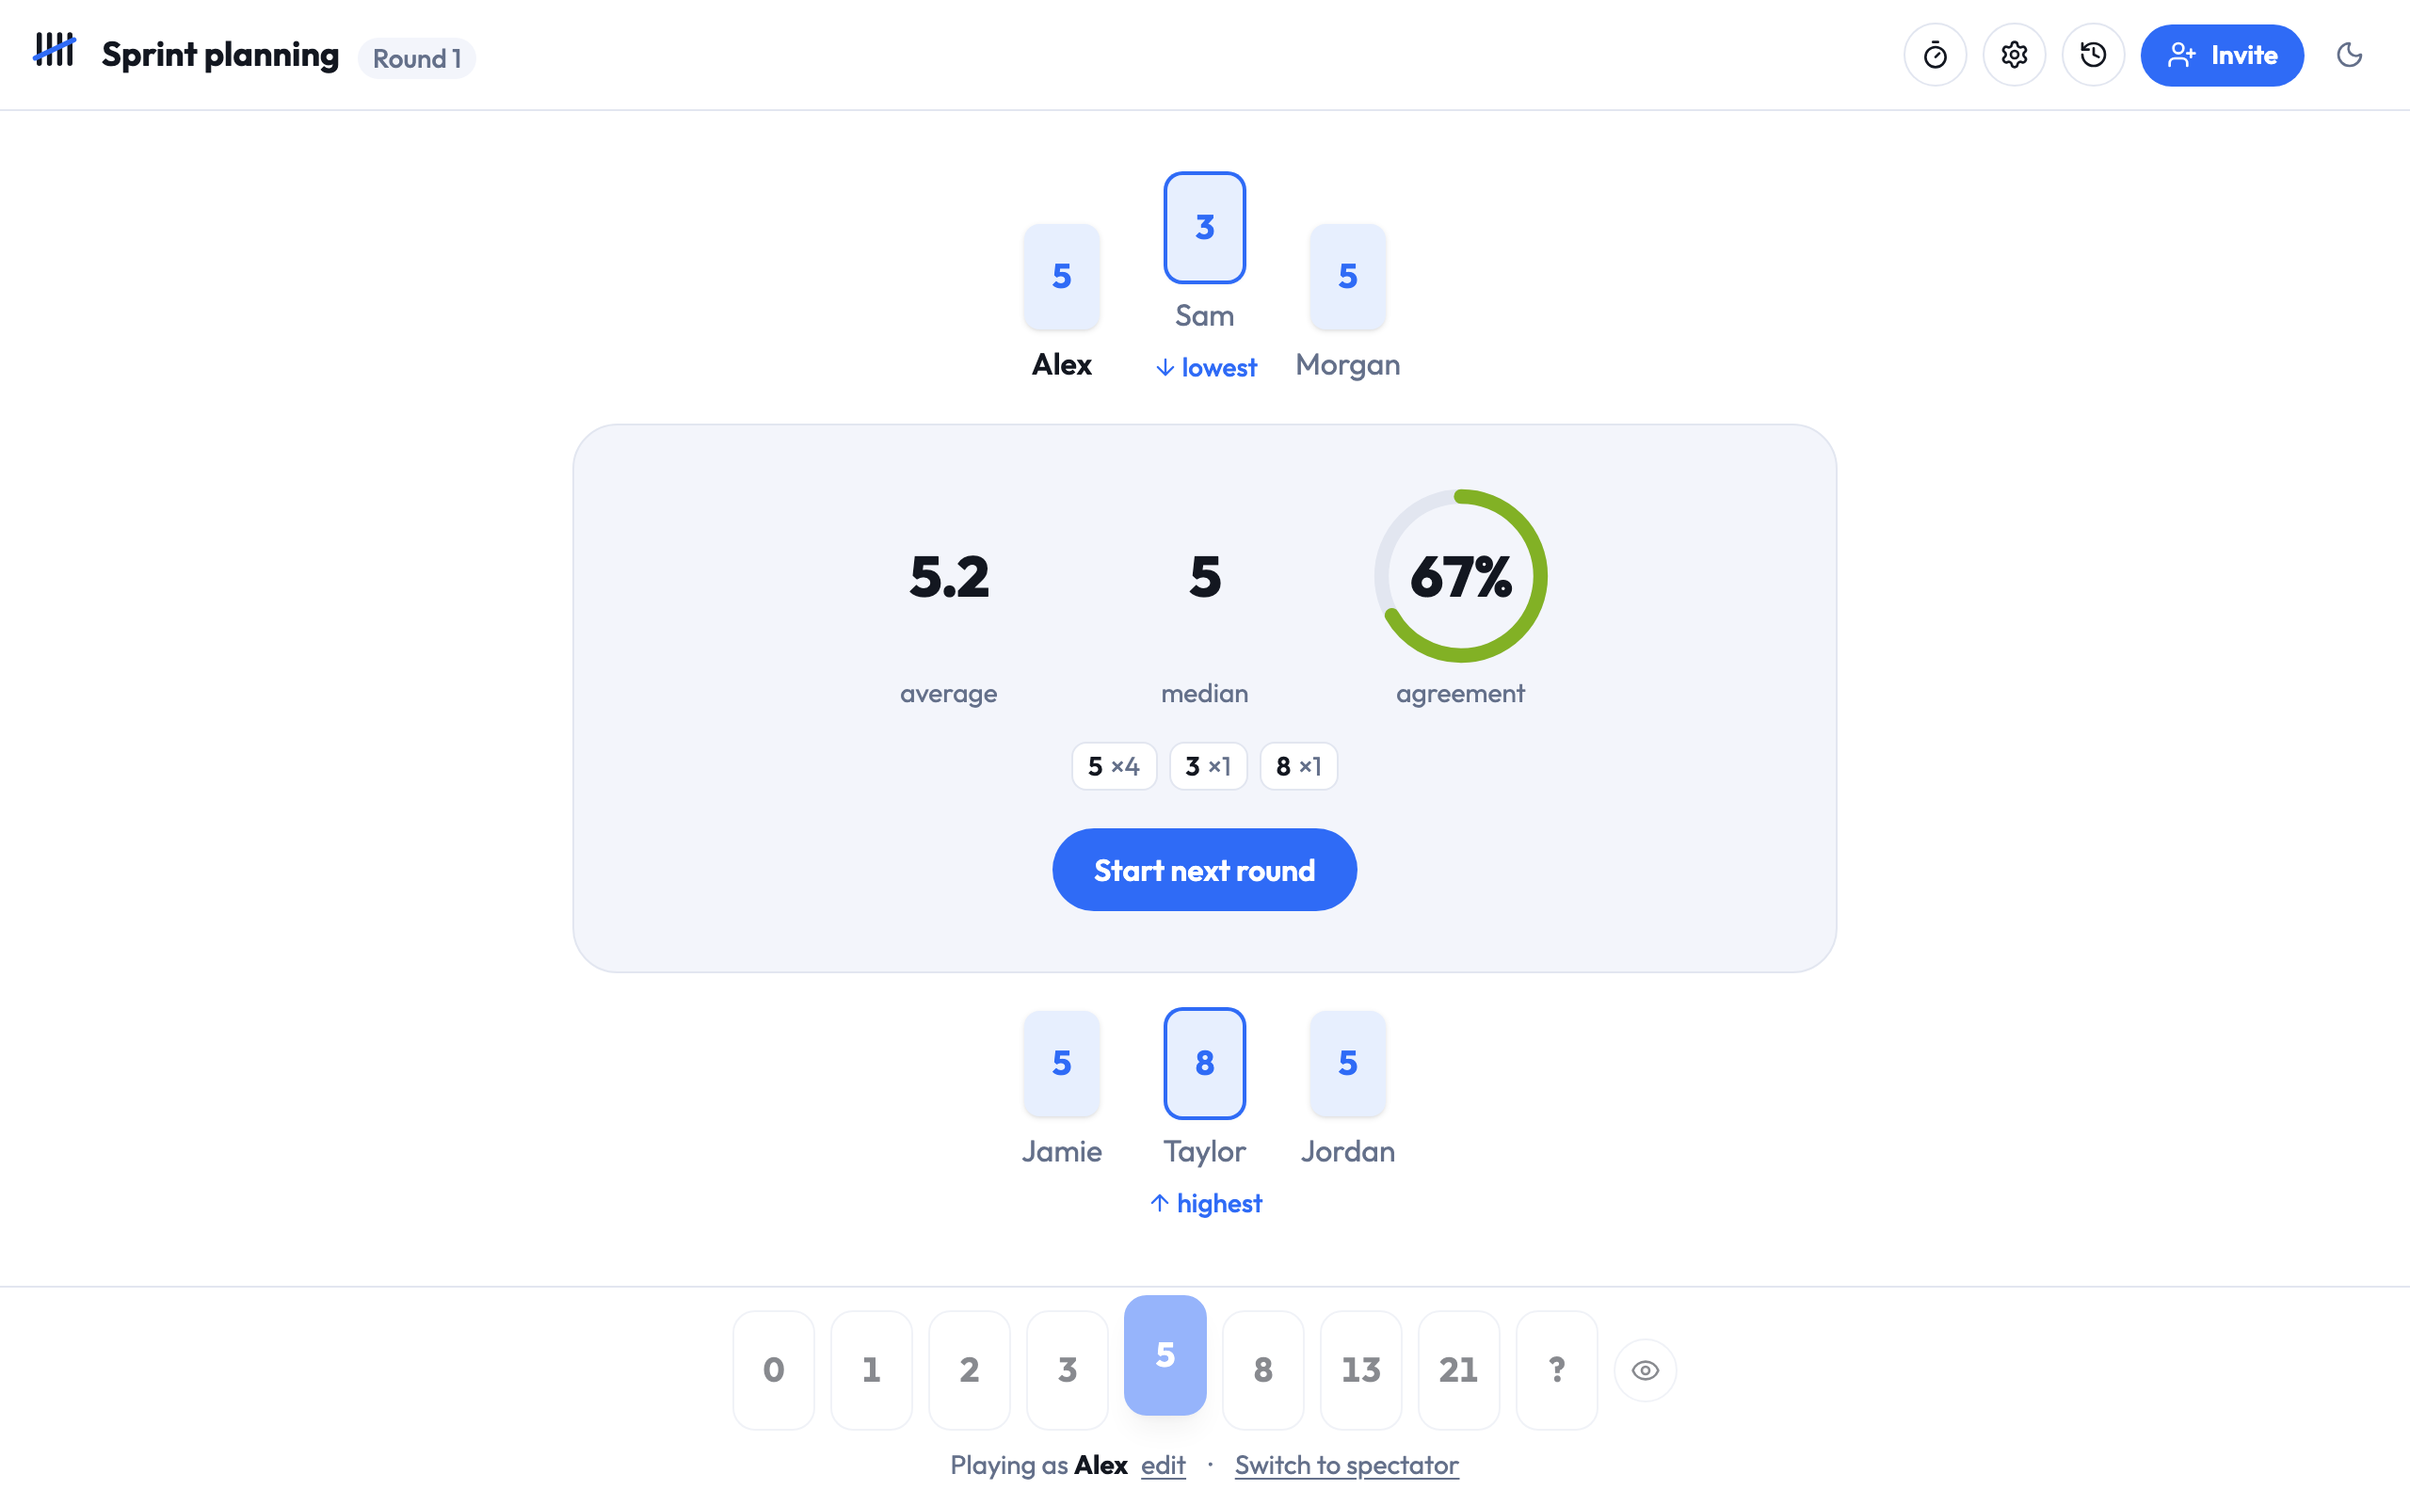
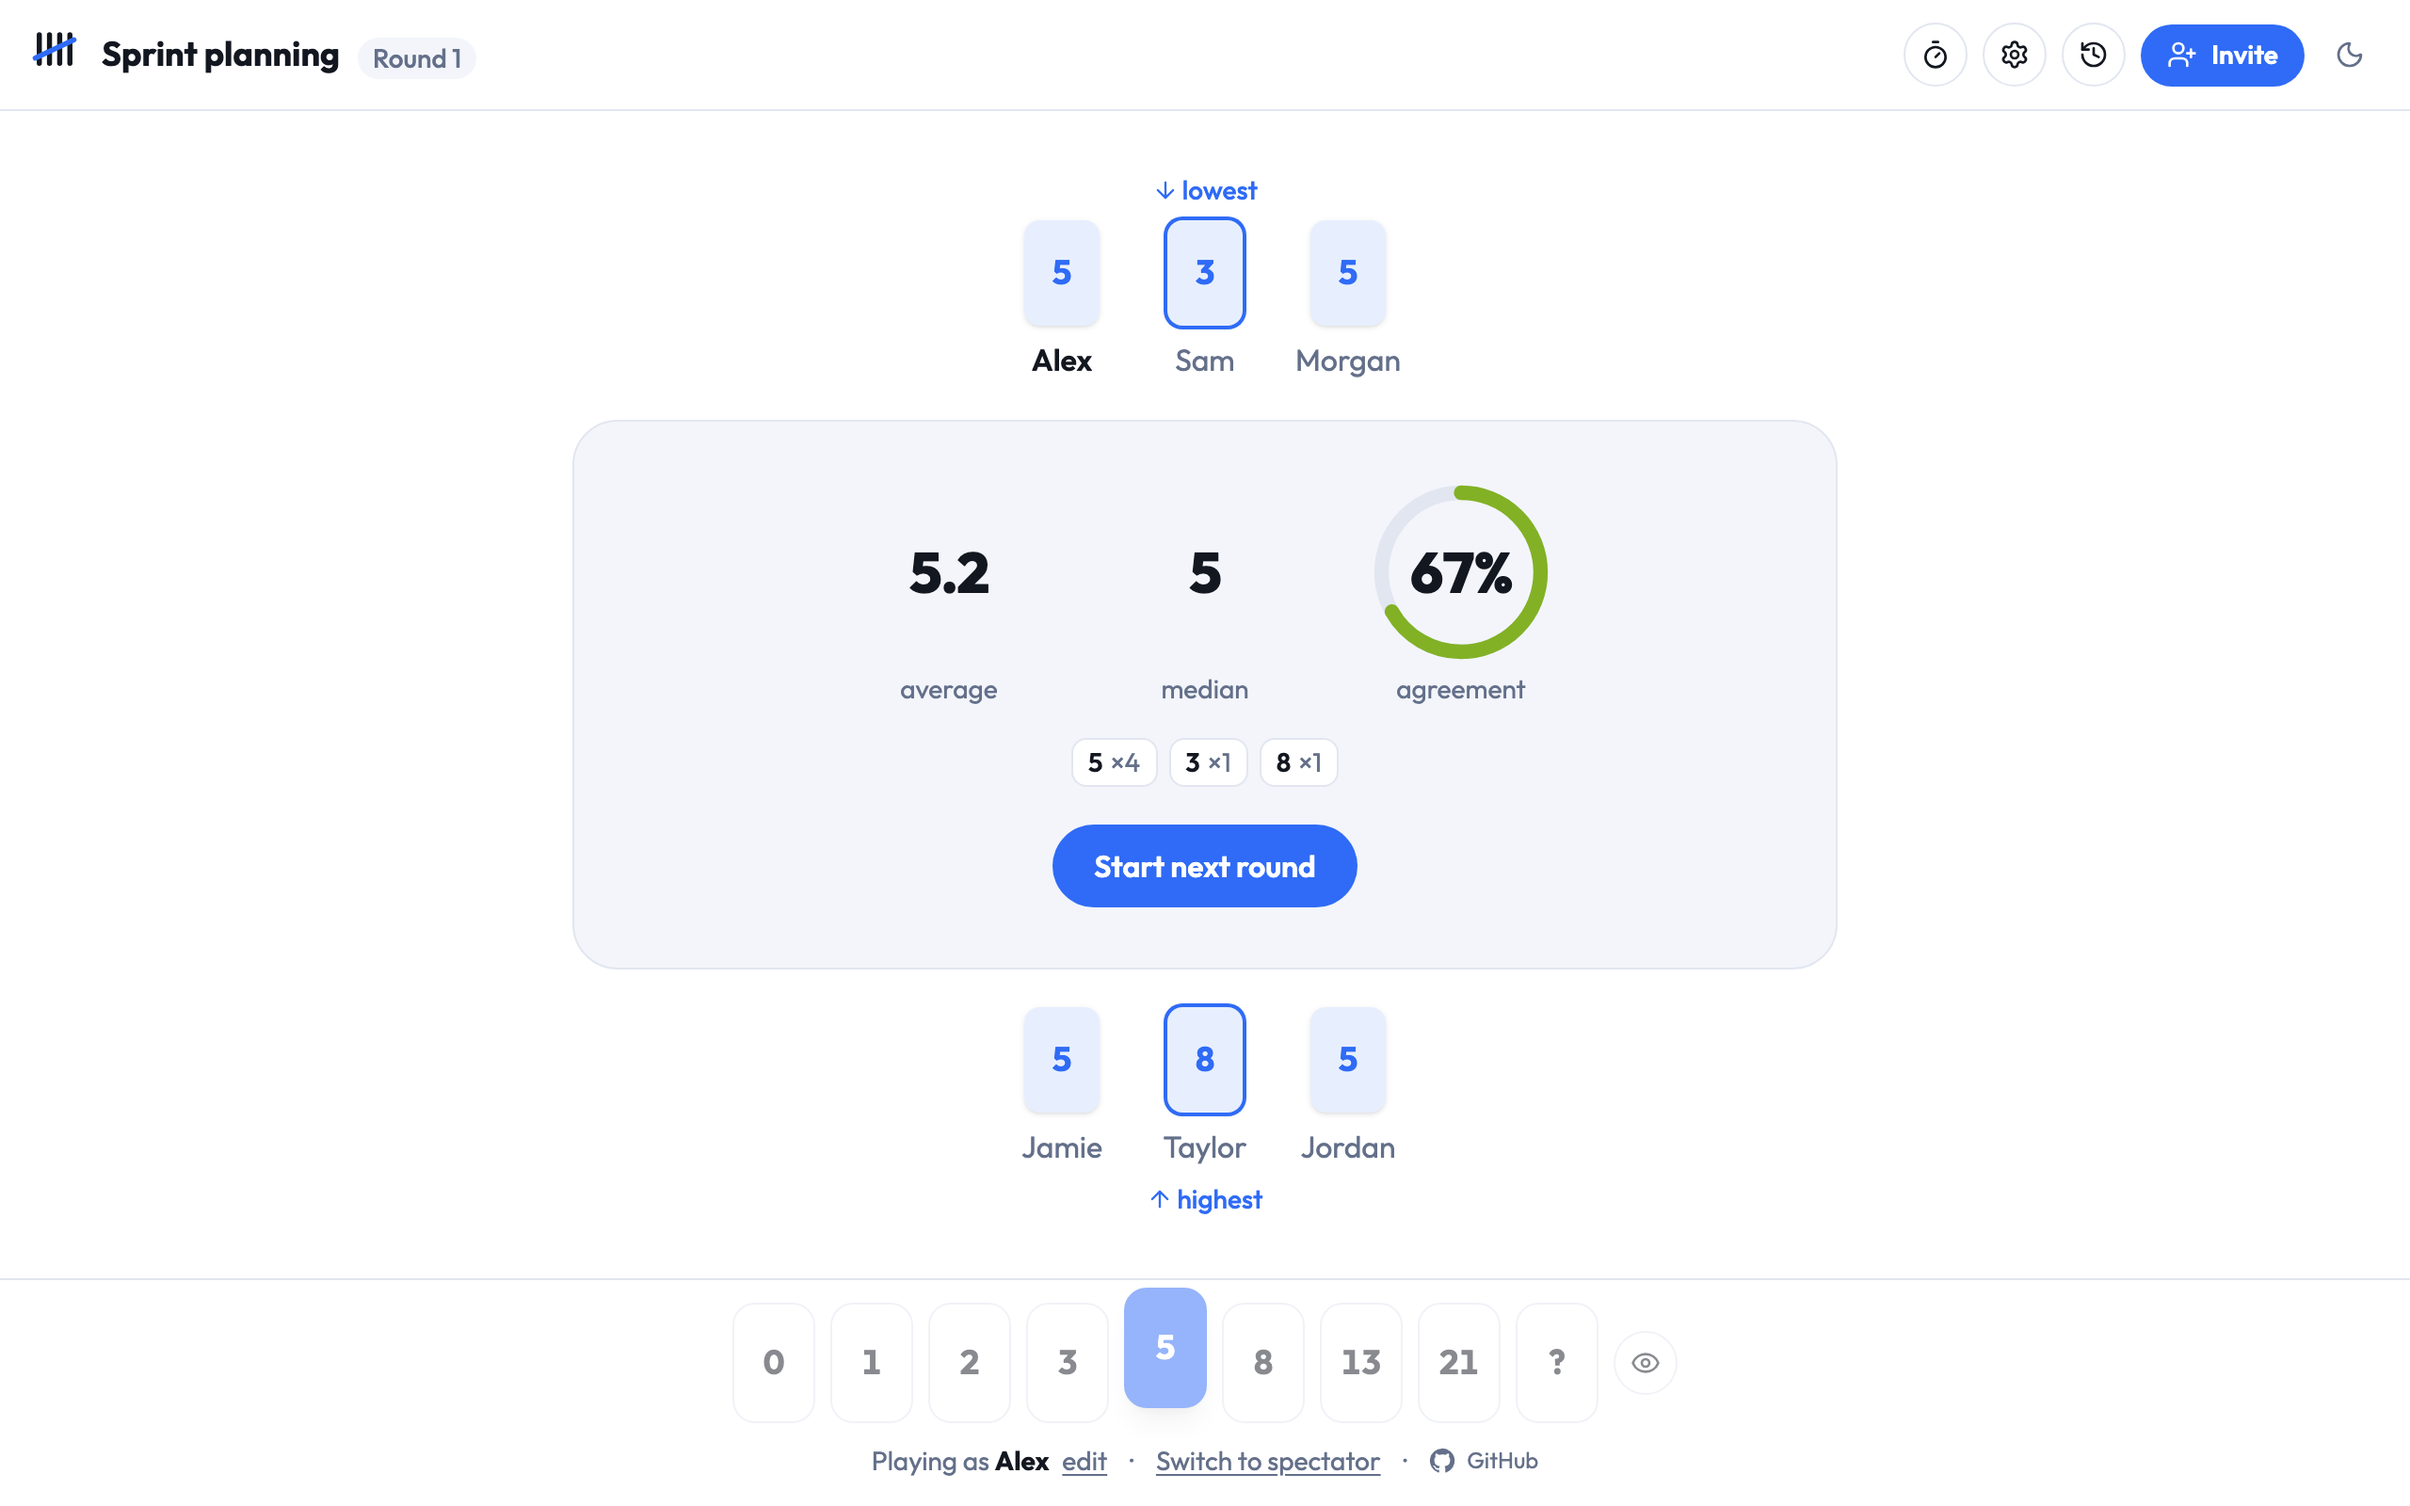
fix(room): position seat labels away from the table

diff --git a/e2e/room.spec.ts b/e2e/room.spec.ts
@@ -136,3 +136,71 @@ test('a kicked player is removed and cannot rejoin', async ({ browser, request }
 	await expect(bob.getByText('You were removed from this game.')).toBeVisible();
 	await close();
 });
+
+test('seat labels face away from the table and keep cards aligned', async ({
+	browser,
+	request
+}) => {
+	const roomId = await createRoom(request, {
+		roomName: 'Sprint planning',
+		deck: ['0', '1', '2', '3', '5', '8', '13', '21', '?']
+	});
+	const names = ['Alex', 'Jamie', 'Sam', 'Taylor', 'Morgan', 'Jordan'];
+	const contexts = await Promise.all(names.map(() => browser.newContext({ deviceScaleFactor: 2 })));
+	const pages: Page[] = [];
+	try {
+		for (const [index, name] of names.entries()) {
+			const page = await contexts[index].newPage();
+			await joinRoom(page, roomId, name);
+			pages.push(page);
+		}
+		const host = pages[0];
+		await host.setViewportSize({ width: 1280, height: 800 });
+		for (const votes of [
+			['5', '5', '3', '8', '5', '5'],
+			['5', '5', '8', '3', '5', '5']
+		]) {
+			for (const [index, vote] of votes.entries()) {
+				await pages[index].getByRole('button', { name: vote, exact: true }).click();
+			}
+			await expect(host.getByText('6 of 6 voted')).toBeVisible();
+			await host.getByRole('button', { name: 'Reveal cards' }).click();
+			await expect(seatOf(host, 'Sam')).toContainText(votes[2] === '3' ? 'lowest' : 'highest');
+			await expect(seatOf(host, 'Taylor')).toContainText(votes[3] === '3' ? 'lowest' : 'highest');
+			for (const row of [
+				names.filter((_, index) => index % 2 === 0),
+				names.filter((_, index) => index % 2 === 1)
+			]) {
+				const cards = await Promise.all(
+					row.map((name) => seatOf(host, name).locator('.flip-scene').boundingBox())
+				);
+				expect(
+					Math.max(...cards.map((card) => card!.y)) - Math.min(...cards.map((card) => card!.y))
+				).toBeLessThan(1);
+			}
+			const samCard = await seatOf(host, 'Sam').locator('.flip-scene').boundingBox();
+			const samLabel = await seatOf(host, 'Sam')
+				.getByText(/lowest|highest/)
+				.boundingBox();
+			expect(samLabel!.y + samLabel!.height).toBeLessThanOrEqual(samCard!.y);
+			const taylorName = await seatOf(host, 'Taylor')
+				.getByText('Taylor', { exact: true })
+				.boundingBox();
+			const taylorLabel = await seatOf(host, 'Taylor')
+				.getByText(/lowest|highest/)
+				.boundingBox();
+			expect(taylorLabel!.y).toBeGreaterThanOrEqual(taylorName!.y + taylorName!.height);
+			if (process.env.UPDATE_README_SCREENSHOT && votes[2] === '3') {
+				await host.evaluate(() => document.fonts.ready);
+				await host.screenshot({
+					path: 'docs/images/tally-demo.png',
+					scale: 'device',
+					animations: 'disabled'
+				});
+			}
+			await host.getByRole('button', { name: 'Start next round' }).click();
+		}
+	} finally {
+		await Promise.all(contexts.map((context) => context.close()));
+	}
+});

diff --git a/src/lib/components/PlayerSeat.svelte b/src/lib/components/PlayerSeat.svelte
@@ -11,6 +11,7 @@
 		revealed,
 		isYou,
 		outlier = null,
+		position = 'bottom',
 		canMakeModerator = false,
 		onmakemoderator,
 		onkick
@@ -19,6 +20,7 @@
 		revealed: boolean;
 		isYou: boolean;
 		outlier?: 'high' | 'low' | null;
+		position?: 'top' | 'bottom';
 		canMakeModerator?: boolean;
 		onmakemoderator?: () => void;
 		onkick?: () => void;
@@ -101,7 +103,8 @@
 	</div>
 
 	{#if revealed && outlier}
-		<span class="inline-flex items-center gap-0.5 text-sm font-medium text-accent">
+		<span class="inline-flex items-center gap-0.5 text-sm font-medium text-accent"
+			class:-order-1={position === 'top'}>
 			{#if outlier === 'high'}
 				<IconArrowUp class="size-3.5" /> highest
 			{:else}
@@ -109,6 +112,6 @@
 			{/if}
 		</span>
 	{:else if !player.online}
-		<span class="text-sm text-muted">away</span>
+		<span class="text-sm text-muted" class:-order-1={position === 'top'}>away</span>
 	{/if}
 </div>

diff --git a/src/routes/room/[id]/+page.svelte b/src/routes/room/[id]/+page.svelte
@@ -457,6 +457,7 @@
 			<div class="flex min-h-24 flex-wrap items-end justify-center gap-3">
 				{#each topSeats as player (player.id)}
 					<PlayerSeat
+						position="top"
 						{player}
 						{revealed}
 						isYou={player.id === snap.you}
